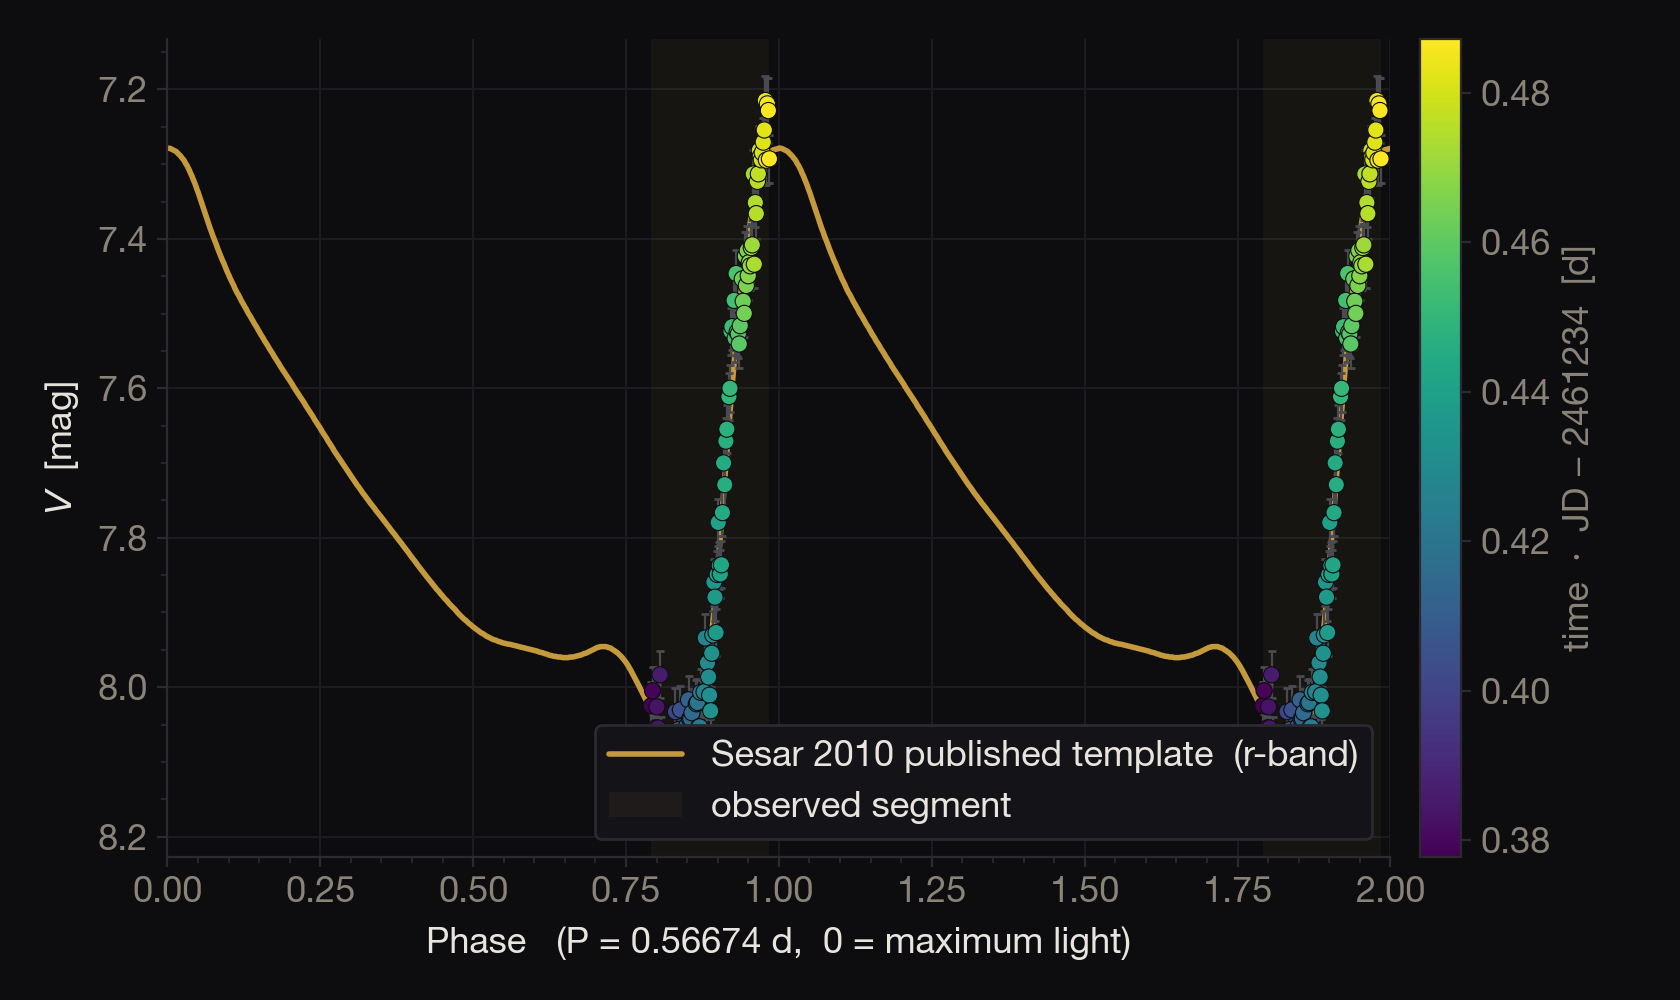
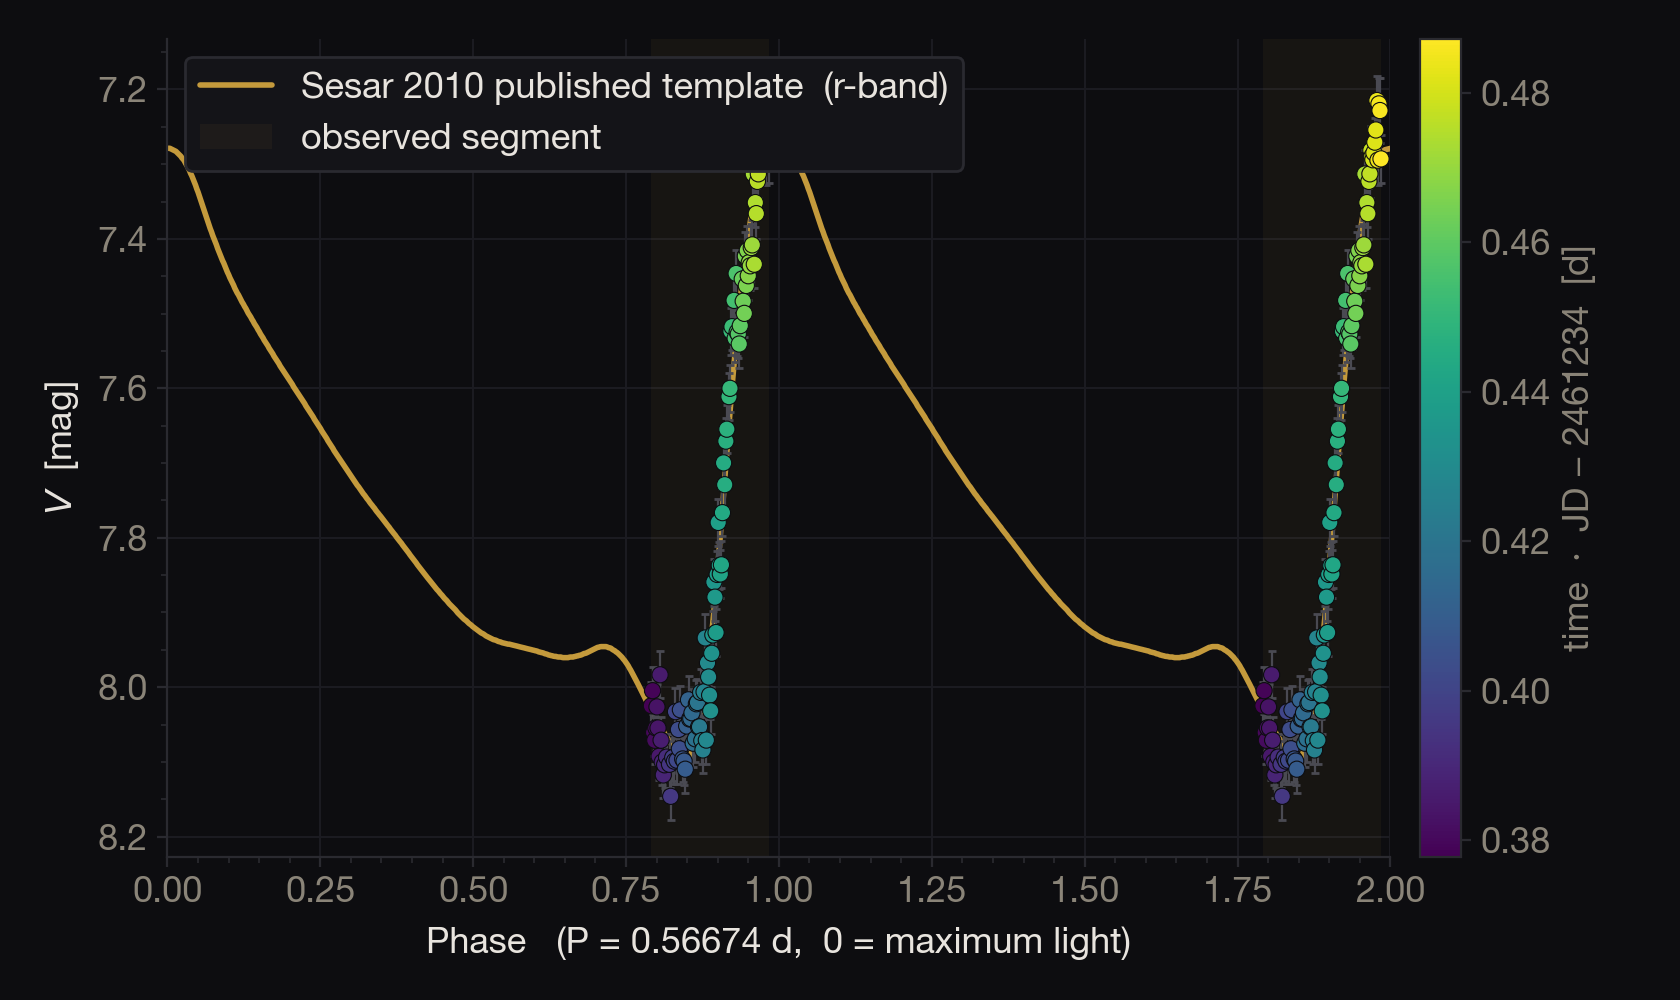
docs(site): RR Lyr fig legend top-left, drop unused white figure, hold start two-col to 520px

Changed region(s): [[0.3405, 0.713, 0.8357, 0.837], [0.1238, 0.062, 0.5881, 0.186]]

diff --git a/docs/css/style.css b/docs/css/style.css
@@ -472,7 +472,7 @@ a.hero-badge-link:hover {
 }
 .start-col-label span { color: var(--muted); opacity: 0.7; }
 .start-col .code-wrap { max-width: none; margin: 0; height: 100%; }
-@media (max-width: 640px) { .start-split { grid-template-columns: 1fr; } }
+@media (max-width: 520px) { .start-split { grid-template-columns: 1fr; } }
 
 /* ─── Contribute ─── */
 .contribute-text {
